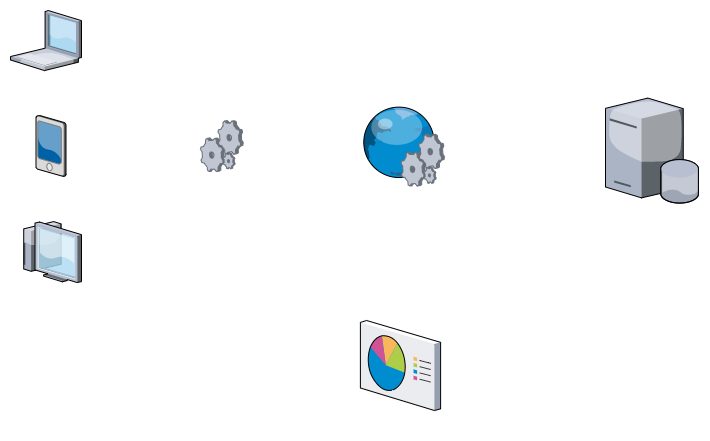
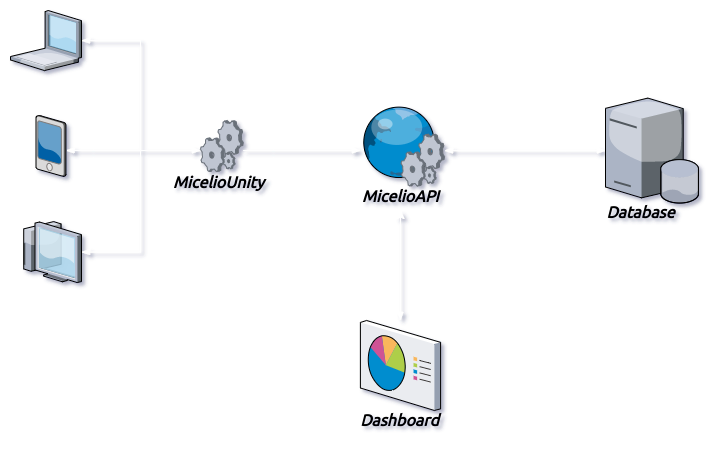
Atualização dos Diagramas

diff --git a/README.md b/README.md
@@ -24,9 +24,9 @@ O modelo de dados foi criado baseando-se no modelo de proveniência PROV. O PROV
 
 A plataforma do Micélio conta com alguns módulos, são eles:
 
-- WebAPI:
+- MicelioAPI:
 
-  [Saiba mais](https://github.com/GPMM/micelio/tree/main/WebAPI).
+  [Saiba mais](https://github.com/GPMM/micelio/tree/main/MicelioAPI).
 
 - MicelioUnity:
 
